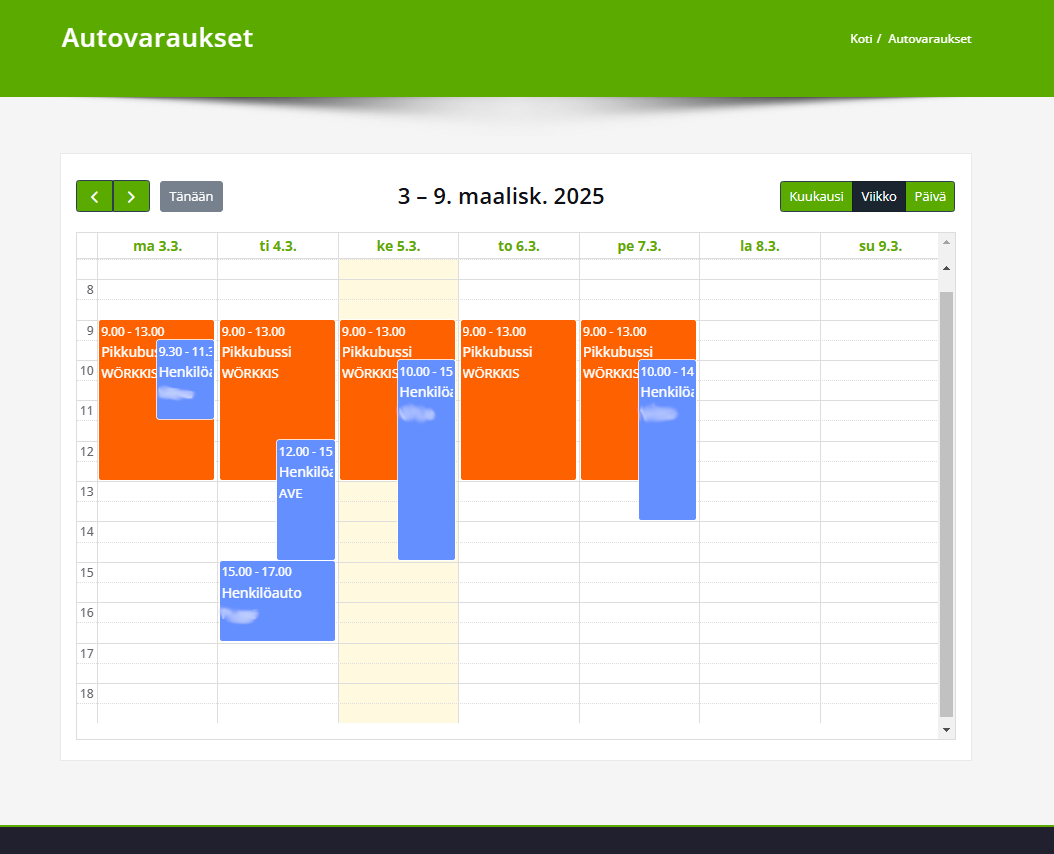
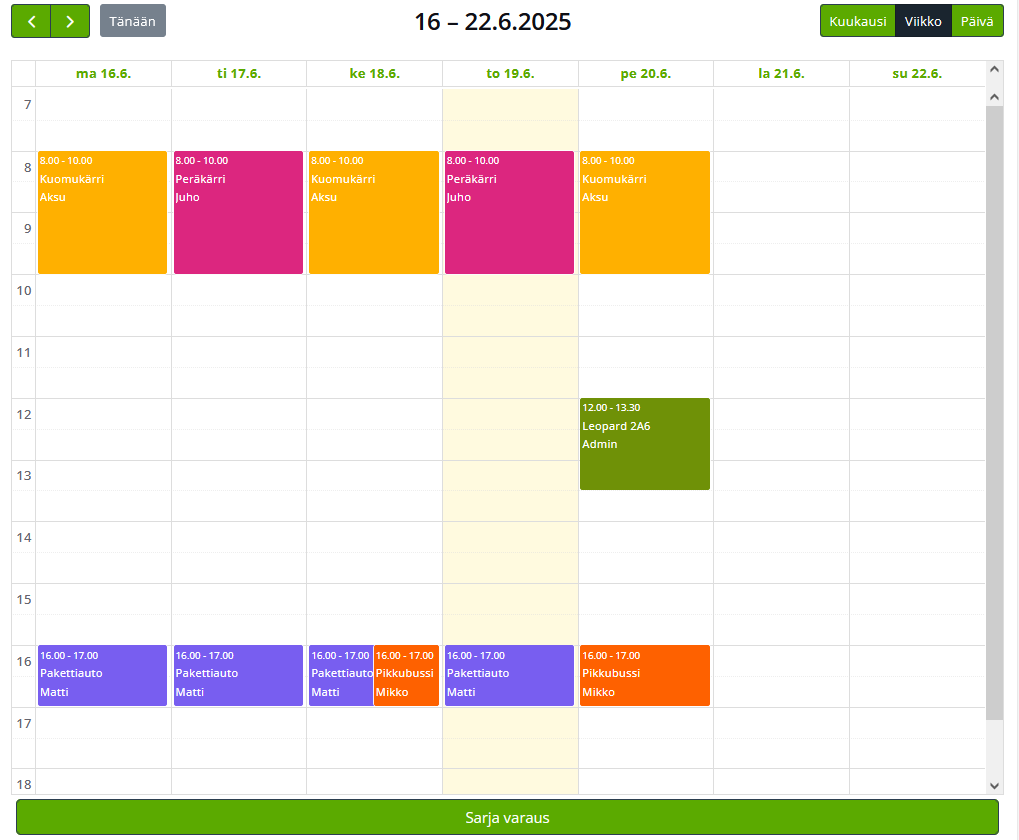
readme edits

diff --git a/README.md b/README.md
@@ -25,6 +25,37 @@
 <img src="github/wppluginmarked.png"/>
 <p>The plugin will then automatically create a <a href="github/wppages.png">page</a> and database <a href="github/table.png">table</a> for the plugin</p>
 
+<h3> Changing which cars are available</h3>
+<p>List of cars and their respective display colors are hard coded into AutoKalenteri.php as a global variable. &#129318;</p>
+<p>To access and modify AutoKalenteri.php in wordpress/wp-admin/plugin-editor.php</p>
+<ul>
+  <li>
+    <h3>DISABLE PLUGIN BEFORE EDITING FILES.</h3>
+    <p>Go to plugin file editor</p>
+    <img src="github/wppluginbdropdown.png">
+  </li>
+  <li>
+    <p>Select AutoKalenteri</p>
+    <img src="github/wpselectpluginfile.png">
+  </li>
+  <li>
+    <p>Find "global $available_cars;" variable</p>
+    <img src="github/wpeditpluginfile.png">
+  </li>
+  <li>
+    <p>Example: 'Leopard 2A6' => <span style="color:#6f9107">'#6F9107'</span> | 'nameOfVehice' => '#hexColor'</p>
+    <img src="github/wpeditphpaddline.png">
+  </li>
+  <li>
+    <p>Click Update to save changes.</p>
+    <img src="github/wpupdatefile.png">
+  </li>
+  <li>
+    <h3>ENABLE PLUGIN AGAIN HERE</h3>
+    <p>Calendar now has a new option</p>
+    <img src="github/wpkalenterinewadded.png">
+  </li>
+</ul>
 
 <h3>License</h3>
 This project is licensed under the MIT License
@@ -32,3 +63,5 @@ This project is licensed under the MIT License
 <h3>Footnote</h3>
 <p>this is my first time being in the wordpress enviroment</p>
 <p>this is my first time using php</p>
+
+    'Kuomukärri' => '#FFB000',
